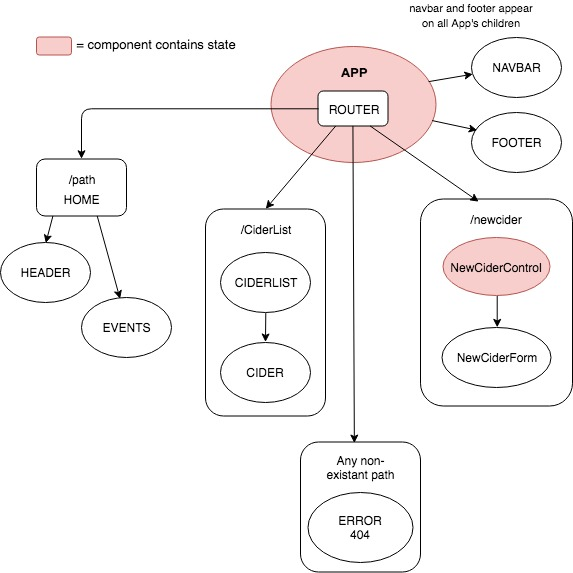
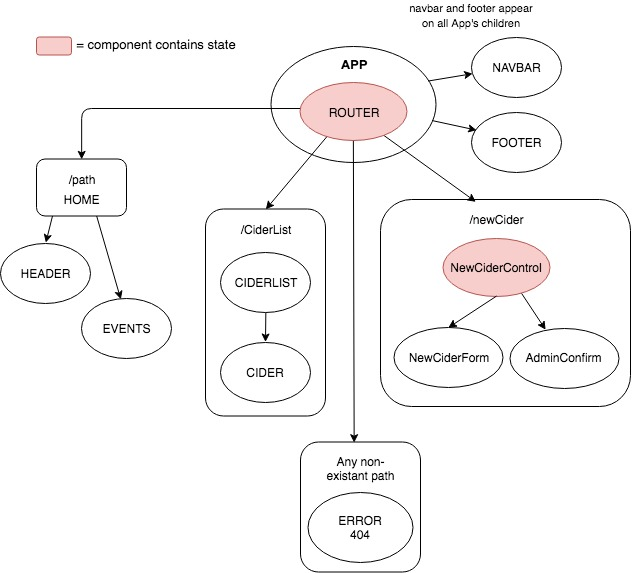
update diagram structure

diff --git a/README.md b/README.md
@@ -15,14 +15,14 @@ Image of project structure, breaking down content into React components:
 ![project structure](./diagram.jpg)
 
 Plan:
-* Create App as State and lift Cider List into App, to allow for inverse data flow from Cider Control.
+* Create Router as State and lift Cider List into Router, to allow for inverse data flow from Cider Control.
 * Create Add Cider Form component with form for user event to submit a new tapped cider keg to list of Ciders.
-* Buy A Pint function component - click button to empty a keg / stretch goal: set interval so keg gradually empties with alert when low.
+* Buy A Pint function component - click button to empty a keg
 * Create EventList in Home with Home being a state-full component with EventControl State component and functionality to add new Events to list (similar to Add cider set up - stretch goal!)
 * Admin Component - to edit and monitor cider keg list and event list.
 
 ### Known Bugs
-No bugs
+Work in progress
 
 ### Technologies and Resources
 * npm / webpack
